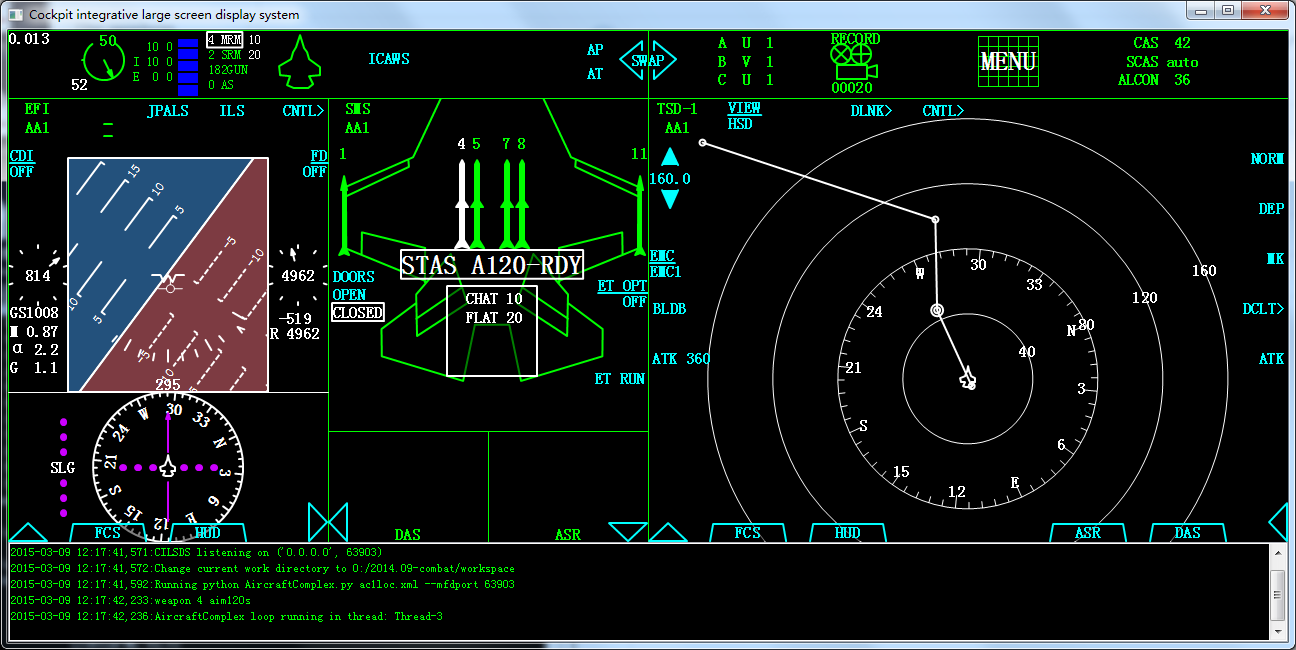
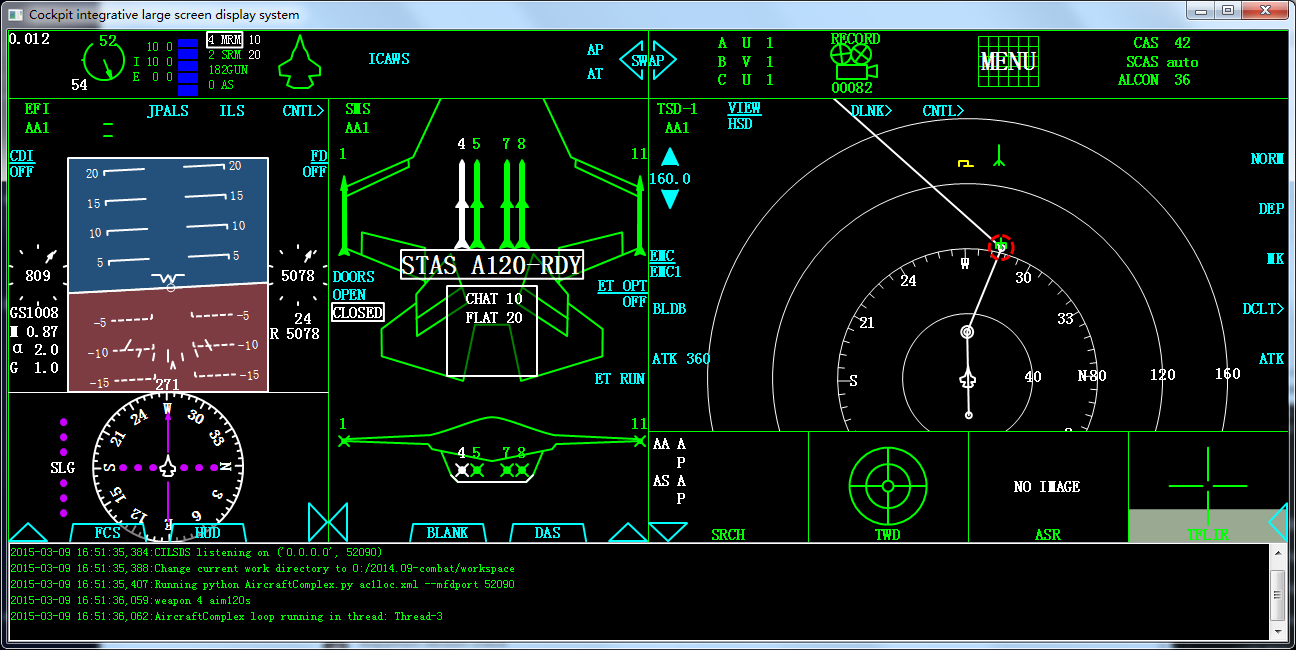
Add dummy instruments

diff --git a/CILSDS/TSD1.py b/CILSDS/TSD1.py
@@ -5,7 +5,7 @@ from Panel import Instrument
 from Control import Control
 from Buttons import *
 
-from math import pi,sqrt,sin,cos,radians
+from math import pi,sqrt,sin,cos,atan2,radians
 
 def LatLon2Meter(lat) :
     m1 = 111132.92
@@ -28,6 +28,7 @@ class Stat(Control) :
         Control.__init__(self, parent)
         self.heading = 0
         self.nav = None
+        self.contacts = None
         self.lat = 23
         self.lon = 112
         self.alt = 5000
@@ -112,9 +113,9 @@ class Stat(Control) :
                 te = gc.GetTextExtent(txt)
                 gc.DrawText(txt,-te[0]/2+0.88*r*sin(-heading+i*pi/6.0),-te[1]/2-0.88*r*cos(-heading+i*pi/6.0))
 
+        (deg2m_lat, deg2m_lon) = LatLon2Meter(radians(self.lat))
         scale = (2*r)/(r4*1000.0)
         if self.nav :
-            (deg2m_lat, deg2m_lon) = LatLon2Meter(radians(self.lat))
             gc.SetPen(gc.pen['white'])
             l = gc.CreatePath()
             c = gc.CreatePath()
@@ -134,6 +135,38 @@ class Stat(Control) :
                     l.AddLineToPoint(x,y)
             gc.StrokePath(l)
             gc.StrokePath(c)
+
+        if self.contacts :
+            select = self.contacts['select']
+            for i,obj in enumerate(self.contacts['OBJS']) :
+                p = obj['pos']
+                y1 = -(p[0]-self.lat)*deg2m_lat*scale
+                x1 = (p[1]-self.lon)*deg2m_lon*scale
+                x = cos_heading*x1 + sin_heading*y1
+                y =-sin_heading*x1 + cos_heading*y1
+                idf = obj['idf']
+                if idf == 'foe' :
+                    gc.SetPen(gc.pen['red'])
+                elif idf == 'friend' :
+                    gc.SetPen(gc.pen['green'])
+                else :
+                    gc.SetPen(gc.pen['yellow'])
+                typ = obj['type']
+                if typ == 'missile' :
+                    gc.StrokeLines([(x-5,y),(x,y-5),(x+5,y)])
+                else :
+                    gc.StrokeLines([(x-5,y),(x-5,y-5),(x+5,y-5),(x+5,y)])
+                vel = obj['vel']
+                speed = sqrt(vel[0]**2+vel[1]**2)/300.0*5+5
+                if speed > 20 :
+                    speed = 20
+                hd = atan2(vel[1],vel[0])
+                gc.StrokeLines([(x,y),(x+speed*sin(-heading+hd),y-speed*cos(-heading+hd))])
+                if select == i :
+                    c = gc.CreatePath()
+                    c.AddCircle(x-1,y-1,12)
+                    gc.SetPen(gc.pen['lock'])
+                    gc.StrokePath(c)
 
         gc.SetPen(gc.pen['white'])
         gc.DrawSymAC(gc,0,0,8,12)
@@ -212,9 +245,11 @@ class TSD1(Instrument) :
         lon=self.mgr.data['lon']
         h=self.mgr.data['ASL']
         nav=self.mgr.data['NAV']
+        contacts=self.mgr.data['CONTACTS']
 
         self.ctrls['STA'].heading = heading
         self.ctrls['STA'].nav = nav
+        self.ctrls['STA'].contacts = contacts
         self.ctrls['STA'].lat = lat
         self.ctrls['STA'].lon = lon
         self.ctrls['STA'].alt = h

diff --git a/CILSDS/Manager.py b/CILSDS/Manager.py
@@ -14,6 +14,14 @@ from TSD1 import TSD1 as TSD
 from Header1 import Header1
 from Header2 import Header2
 
+from TFLIR import TFLIR
+from SRCH import SRCH
+from TWD import TWD
+from ASR import ASR
+#from FUEL import FUEL
+#from HUD import HUD
+#from ENG import ENG
+
 class Manager(wx.Panel):
     def __init__(self, parent, log):
         self.log = log
@@ -58,23 +66,30 @@ class Manager(wx.Panel):
             'PNTS':[(23.0, 109.0, 5000),(23.0, 108.5, 5000),(23.2, 108.0, 5000),(22.2, 107.0, 5000)]
             },
         'CONTACTS' : {'select':1,
-            'OBJS':[{'pos':(23.0, 107.0, 5000), 'vel':(0,300,0), 'type':'airplane', 'id':'foe'},
-                    {'pos':(23.2, 108.0, 5000), 'vel':(0,-300,0), 'type':'airplane', 'id':'friend'},
-                    {'pos':(23.0, 107.5, 5000), 'vel':(300,0,0), 'type':'airplane', 'id':'unknown'},
-                    {'pos':(23.2, 107.5, 5000), 'vel':(0,-1000,0), 'type':'missile', 'id':'friend'},
+            'OBJS':[{'pos':(23.0, 107.0, 5000), 'vel':(0,300,0), 'type':'airplane', 'idf':'foe'},
+                    {'pos':(23.2, 108.0, 5000), 'vel':(0,-300,0), 'type':'airplane', 'idf':'friend'},
+                    {'pos':(23.0, 107.5, 5000), 'vel':(300,0,0), 'type':'airplane', 'idf':'unknown'},
+                    {'pos':(23.2, 107.5, 5000), 'vel':(0,-1000,0), 'type':'missile', 'idf':'friend'},
                    ],
             },
         }
 
         self.using_panels = {}
         self.free_panels = { \
-                'EFI':EFI(self), \
-                'SMS':SMS(self), \
-                'TSD-1':TSD(self), \
-                'TSD-2':TSD(self), \
-                'TSD-3':TSD(self), \
-                'H1':Header1(self), \
-                'H2':Header2(self) \
+                'EFI':EFI(self),
+                'SMS':SMS(self),
+                'TSD-1':TSD(self),
+                'TSD-2':TSD(self),
+                'TSD-3':TSD(self),
+                'TFLIR':TFLIR(self),
+                'SRCH':SRCH(self),
+                'TWD':TWD(self),
+                'ASR':ASR(self),
+                #'FUEL':FUEL(self),
+                #'HUD':HUD(self),
+                #'ENG':ENG(self),
+                'H1':Header1(self),
+                'H2':Header2(self),
                 }
 
         self.Body0 = Window(self,0, 0, 0, 640, 512, 3, \

diff --git a/CILSDS/TWD.py b/CILSDS/TWD.py
@@ -1,0 +1,60 @@
+
+from Panel import Instrument
+from Control import Control
+from Buttons import *
+
+
+class TWD(Instrument) :
+    def __init__(self, mgr) :
+        Instrument.__init__(self, None, mgr)
+        self.ctrls['BtnOPER'] = Button(self, 'OPER')
+        self.ctrls['BtnCM'] = ButtonSwitch(self, 'MODE', ['SEMI', 'ACTI'])
+        self.ctrls['BtnCNTL'] = Button(self, 'CNTL>')
+
+        self.ctrls['BtnDCLT'] = Button(self, 'DCLT')
+
+        self.ctrls['BtnSEP'] = Button(self, 'SEP')
+
+        self.ctrls['BtnRWSS'] = ButtonSwitch(self, 'RW SS', ['AS1', 'AS2'])
+        self.ctrls['BtnHSSS'] = ButtonSwitch(self, 'HS SS', ['WB', 'COL'])
+
+    def Layout(self) :
+        w = self.w
+        h = self.h
+
+        self.ctrls['BtnOPER'].SetLeftTop(80,2)
+        self.ctrls['BtnCM'].SetLeftTop(200,2)
+        self.ctrls['BtnCNTL'].SetRightTop(320,2)
+
+        self.ctrls['BtnDCLT'].SetRightTop(w,200)
+
+        self.ctrls['BtnRWSS'].SetLeftTop(2,50)
+        self.ctrls['BtnHSSS'].SetLeftTop(2,100)
+        self.ctrls['BtnSEP'].SetLeftTop(2,150)
+
+    def DrawContent(self) :
+        gc = self.gc
+
+        w = self.w
+        h = self.h
+        w2 = w/2
+        h2 = h/2
+        l = gc.CreatePath()
+        l.AddCircle(w2,h2,h2*0.7)
+        l.AddCircle(w2,h2,h2*0.4)
+        l.AddCircle(w2,h2,h2*0.1)
+        l.MoveToPoint(w2-h2*0.7,h2)
+        l.AddLineToPoint(w2-h2*0.1,h2)
+        l.MoveToPoint(w2+h2*0.7,h2)
+        l.AddLineToPoint(w2+h2*0.1,h2)
+        l.MoveToPoint(w2,h2+h2*0.7)
+        l.AddLineToPoint(w2,h2+h2*0.1)
+        l.MoveToPoint(w2,h2-h2*0.7)
+        l.AddLineToPoint(w2,h2-h2*0.1)
+        gc.SetPen(gc.pen['green'])
+        gc.StrokePath(l)
+
+    def DrawPreviewContent(self) :
+        self.DrawContent()
+
+

diff --git a/CILSDS/TFLIR.py b/CILSDS/TFLIR.py
@@ -1,0 +1,66 @@
+
+from Panel import Instrument
+from Control import Control
+from Buttons import *
+
+
+class TFLIR(Instrument) :
+    def __init__(self, mgr) :
+        Instrument.__init__(self, None, mgr)
+        self.ctrls['BtnCM'] = ButtonSwitch(self, 'MODE', ['A-A', 'A-S'])
+        self.ctrls['BtnSYS'] = Button(self, 'SYSTEM')
+        self.ctrls['BtnCNTL'] = Button(self, 'CNTL>')
+
+        self.ctrls['BtnCAPTR'] = Button(self, 'CAPTR')
+
+    def Layout(self) :
+        w = self.w
+        h = self.h
+
+        self.ctrls['BtnCM'].SetLeftTop(80,2)
+        self.ctrls['BtnSYS'].SetLeftTop(200,2)
+        self.ctrls['BtnCNTL'].SetRightTop(320,2)
+
+        self.ctrls['BtnCAPTR'].SetRightTop(w,200)
+
+    def DrawContent(self) :
+        gc = self.gc
+
+        w = self.w
+        h = self.h
+        gc.Clip(0,0,w,h)
+        gc.SetBrush(gc.brush['ir_ground'])
+        l = gc.CreatePath()
+        l.AddRectangle(0,h*0.7,w,h*0.7)
+        gc.FillPath(l)
+
+
+        w2 = w/2
+        h2 = h/2
+        l = gc.CreatePath()
+        l.MoveToPoint(w2-h2*0.7,h2)
+        l.AddLineToPoint(w2-h2*0.1,h2)
+        l.MoveToPoint(w2+h2*0.7,h2)
+        l.AddLineToPoint(w2+h2*0.1,h2)
+        l.MoveToPoint(w2,h2+h2*0.7)
+        l.AddLineToPoint(w2,h2+h2*0.1)
+        l.MoveToPoint(w2,h2-h2*0.7)
+        l.AddLineToPoint(w2,h2-h2*0.1)
+        gc.SetPen(gc.pen['green'])
+        gc.StrokePath(l)
+        gc.ResetClip()
+
+        txt = 'IRST'
+        gc.SetPen(gc.pen['white'])
+        gc.SetFont(gc.font['white12'])
+        gc.SetBrush(gc.brush['none'])
+        te = gc.GetTextExtent(txt)
+        gc.DrawRectangle(5-1,150-1,te[0]+2,te[1]+2)
+        gc.DrawText(txt,5,150)
+
+
+    def DrawPreviewContent(self) :
+        self.DrawContent()
+
+
+

diff --git a/CILSDS/Resources.py b/CILSDS/Resources.py
@@ -17,6 +17,7 @@ def CreateResources(gc):
     gc.pen['panel_board'] = gc.CreatePen(wx.Pen(wx.GREEN, 1, wx.PENSTYLE_SOLID))
     gc.pen['act_panel_board'] = gc.CreatePen(wx.Pen(wx.Colour(0xCF,0xFF,0x50), 3))
     gc.pen['focus'] = gc.CreatePen(wx.Pen(wx.WHITE, 1, wx.PENSTYLE_SHORT_DASH))
+    gc.pen['lock'] = gc.CreatePen(wx.Pen(wx.RED, 3, wx.PENSTYLE_SHORT_DASH))
     gc.pen['clicking_cross'] = gc.CreatePen(wx.Pen(wx.RED, 2, wx.PENSTYLE_SHORT_DASH))
     gc.pen['button'] = gc.CreatePen(wx.Pen(wx.CYAN, 2, wx.PENSTYLE_SOLID))
     gc.pen['red'] = gc.CreatePen(wx.Pen(wx.RED, 2))
@@ -24,6 +25,7 @@ def CreateResources(gc):
     gc.pen['green'] = gc.CreatePen(wx.Pen(wx.GREEN, 2))
     gc.pen['green1'] = gc.CreatePen(wx.Pen(wx.GREEN, 1))
     gc.pen['white'] = gc.CreatePen(wx.Pen(wx.WHITE, 2))
+    gc.pen['yellow'] = gc.CreatePen(wx.Pen(wx.YELLOW, 2))
     gc.pen['black'] = gc.CreatePen(wx.Pen(wx.BLACK, 2))
     gc.pen['white1'] = gc.CreatePen(wx.Pen(wx.WHITE, 1))
     gc.pen['white1.5'] = gc.CreatePen(wx.Pen(wx.WHITE, 1.5))
@@ -42,6 +44,7 @@ def CreateResources(gc):
     gc.brush['ground'] = gc.CreateBrush(wx.Brush(wx.Colour(0x7D,0x3B,0x42)))
     gc.brush['sky'] = gc.CreateBrush(wx.Brush(wx.Colour(0x23,0x51,0x7C)))
     gc.brush['tab'] = gc.CreateBrush(wx.Brush(wx.Colour(0x00,0x00,0x00, 0x7E)))
+    gc.brush['ir_ground'] = gc.CreateBrush(wx.Brush(wx.Colour(0x9A,0xAA,0x92)))
     gc.font = {}
     font = [wx.Font(12, wx.FONTFAMILY_TELETYPE, wx.FONTSTYLE_NORMAL, wx.FONTWEIGHT_BOLD),
             wx.Font(20, wx.FONTFAMILY_TELETYPE, wx.FONTSTYLE_NORMAL, wx.FONTWEIGHT_BOLD),

diff --git a/CILSDS/ASR.py b/CILSDS/ASR.py
@@ -1,0 +1,38 @@
+
+from Panel import Instrument
+from Control import Control
+from Buttons import *
+
+
+class ASR(Instrument) :
+    def __init__(self, mgr) :
+        Instrument.__init__(self, None, mgr)
+        self.ctrls['BtnMODE'] = ButtonSwitch(self, 'MODE', ['SAR', 'SCAN'])
+        self.ctrls['BtnBLANK'] = Button(self, 'BLANK')
+        self.ctrls['BtnCNTL'] = Button(self, 'CNTL>')
+
+        self.ctrls['BtnDvRLAY'] = ButtonSwitch(self, 'DvRLAY', ['OFF', 'ON'], True)
+        self.ctrls['BtnAFS'] = ButtonSwitch(self, 'AFS', ['1', '2', '3', '4'])
+
+    def Layout(self) :
+        w = self.w
+        h = self.h
+
+        self.ctrls['BtnMODE'].SetLeftTop(80,2)
+        self.ctrls['BtnBLANK'].SetLeftTop(200,2)
+        self.ctrls['BtnCNTL'].SetRightTop(320,2)
+
+        self.ctrls['BtnDvRLAY'].SetRightTop(w,200)
+
+        self.ctrls['BtnAFS'].SetLeftBottom(2,330)
+
+    def DrawContent(self) :
+        gc = self.gc
+        txt = 'NO IMAGE'
+        te = gc.GetTextExtent(txt)
+        gc.SetFont(gc.font['default'])
+        gc.DrawText(txt,(self.w-te[0])/2, (self.h-te[1])/2)
+
+    def DrawPreviewContent(self) :
+        self.DrawContent()
+

diff --git a/CILSDS/SRCH.py b/CILSDS/SRCH.py
@@ -1,0 +1,33 @@
+
+from Panel import Instrument
+from Control import Control
+from Buttons import *
+
+
+class SRCH(Instrument) :
+    def __init__(self, mgr) :
+        Instrument.__init__(self, None, mgr)
+        self.ctrls['BtnOPER'] = Button(self, 'OPER')
+        self.ctrls['BtnCNTL'] = Button(self, 'CNTL>')
+
+    def Layout(self) :
+        w = self.w
+        h = self.h
+
+        self.ctrls['BtnOPER'].SetLeftTop(80,2)
+        self.ctrls['BtnCNTL'].SetRightTop(320,2)
+
+    def DrawContent(self) :
+        gc = self.gc
+        txt = 'AA A\n   P\nAS A\n   P'
+        gc.SetFont(gc.font['default'])
+        gc.DrawText(txt,10, 60)
+
+    def DrawPreviewContent(self) :
+        gc = self.gc
+        txt = 'AA A\n   P\nAS A\n   P'
+        gc.SetFont(gc.font['default'])
+        gc.DrawText(txt,5,5)
+
+
+
